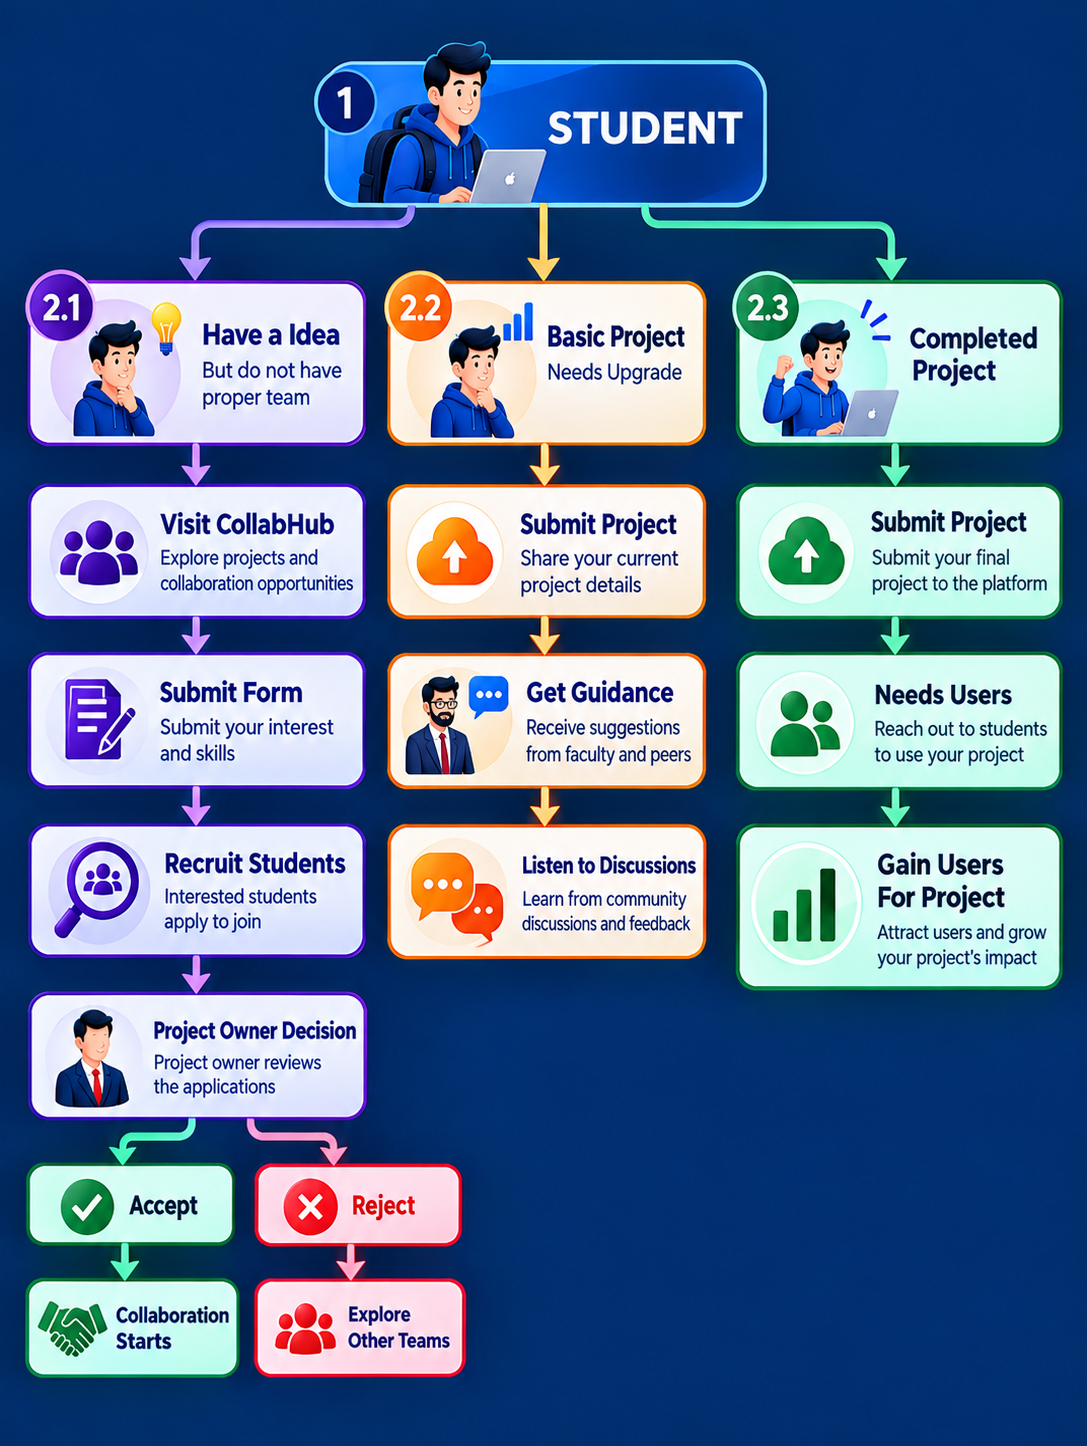
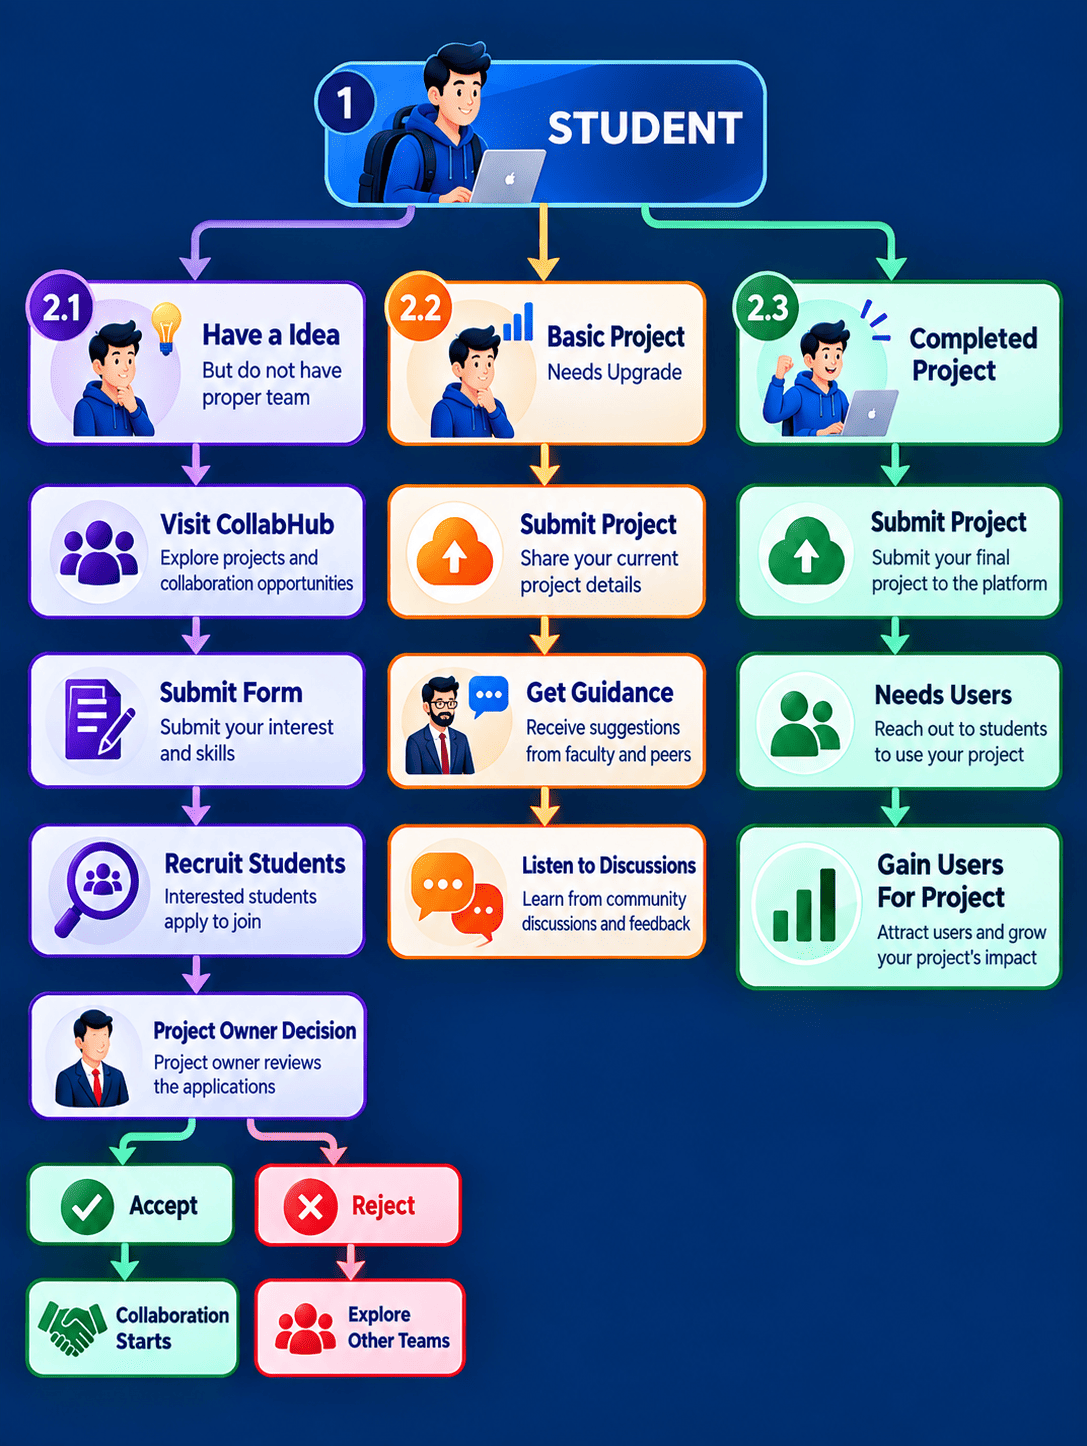
small changes in signup and redused img pxls

diff --git a/HubFrontend/src/Pages/SignUpLogin/TeacherSignup.jsx b/HubFrontend/src/Pages/SignUpLogin/TeacherSignup.jsx
@@ -147,8 +147,8 @@ const TeacherSignup = () => {
               <div className="relative"><input name="password" value={form.password} onChange={handleChange} disabled={otpSent} type={showPassword ? "text" : "password"} placeholder="Password *" className="w-full p-3 pr-11 rounded-xl border border-gray-800 text-black outline-none disabled:bg-gray-100" /><button type="button" onClick={() => setShowPassword(value => !value)} className="absolute right-3 inset-y-0 text-gray-700">{showPassword ? <EyeOff size={20} /> : <Eye size={20} />}</button></div>
               <div className="relative"><input value={confirmPassword} onChange={event => setConfirmPassword(event.target.value)} disabled={otpSent} type={showConfirmPassword ? "text" : "password"} placeholder="Confirm Password *" className="w-full p-3 pr-11 rounded-xl border border-gray-800 text-black outline-none disabled:bg-gray-100" /><button type="button" onClick={() => setShowConfirmPassword(value => !value)} className="absolute right-3 inset-y-0 text-gray-700">{showConfirmPassword ? <EyeOff size={20} /> : <Eye size={20} />}</button></div>
             </div>
-            <textarea name="reason" value={form.reason} onChange={handleChange} disabled={otpSent} rows="3" maxLength={500} placeholder="Why would you like to review student projects? (Optional)" className="w-full p-3 rounded-xl border border-gray-800 text-black outline-none disabled:bg-gray-100 resize-none" />
             {form.password && !otpSent && <div className="text-sm text-red-600 space-y-1">{form.password.length < 8 && <p>• At least 8 characters</p>}{!/[A-Z]/.test(form.password) && <p>• One uppercase letter</p>}{!/[a-z]/.test(form.password) && <p>• One lowercase letter</p>}{!/\d/.test(form.password) && <p>• One number</p>}{passwordRegex.test(form.password) && <p className="text-emerald-700">✓ Strong password</p>}</div>}
+            <textarea name="reason" value={form.reason} onChange={handleChange} disabled={otpSent} rows="3" maxLength={500} placeholder="Why would you like to review student projects? (Optional)" className="w-full p-3 rounded-xl border border-gray-800 text-black outline-none disabled:bg-gray-100 resize-none" />
             {!otpSent ? <button onClick={sendOtp} type="button" disabled={loading} className="w-full bg-primary text-white font-bold py-3 rounded-xl disabled:opacity-50">{loading ? "Sending OTP..." : "Send OTP"}</button> : <><div className="flex gap-3"><input value={otp} onChange={event => setOtp(event.target.value.replace(/\D/g, "").slice(0, 4))} inputMode="numeric" placeholder="Enter 4-digit OTP" className="flex-1 p-3 rounded-xl border border-gray-800 text-black outline-none" /><button onClick={verifyOtp} type="button" disabled={loading || otp.length !== 4} className="bg-primary text-tan font-bold px-6 rounded-xl disabled:opacity-50">Verify</button></div><button onClick={resendOtp} type="button" disabled={timer > 0 || loading} className="w-full text-fuchsia-950 font-semibold disabled:opacity-50">{timer > 0 ? `Resend OTP in ${timer}s` : "Resend OTP"}</button></>}
           </form>
           <div className="mt-6 pt-5 border-t border-gray-800 text-center"><button onClick={() => navigate("/login")} className="text-primary font-semibold hover:underline">Already approved? Login</button></div>

diff --git a/HubFrontend/src/Pages/SignUpLogin/SignUp.jsx b/HubFrontend/src/Pages/SignUpLogin/SignUp.jsx
@@ -202,11 +202,11 @@ return (
         </div>
 
         {form.password && (
-          <div className="mt-3 text-sm text-red-400 space-y-1">
+          <div className="mt-3 text-sm text-red-300 space-y-1">
             {form.password.length < 8 && <p>• Password must be at least 8 characters</p>}
-            {!/[A-Z]/.test(form.password) && <p>• Add one uppercase letter</p>}
-            {!/[a-z]/.test(form.password) && <p>• Add one lowercase letter</p>}
-            {!/\d/.test(form.password) && <p>• Add one number</p>}
+            {!/[A-Z]/.test(form.password) && <p>• must contain at least one uppercase letter</p>}
+            {!/[a-z]/.test(form.password) && <p>• must contain at least lowercase letter</p>}
+            {!/\d/.test(form.password) && <p>•  must contain at least one number</p>}
             {passwordRegex.test(form.password) && <p className="text-emerald-700">✓ Strong password</p>}
           </div>
         )}
